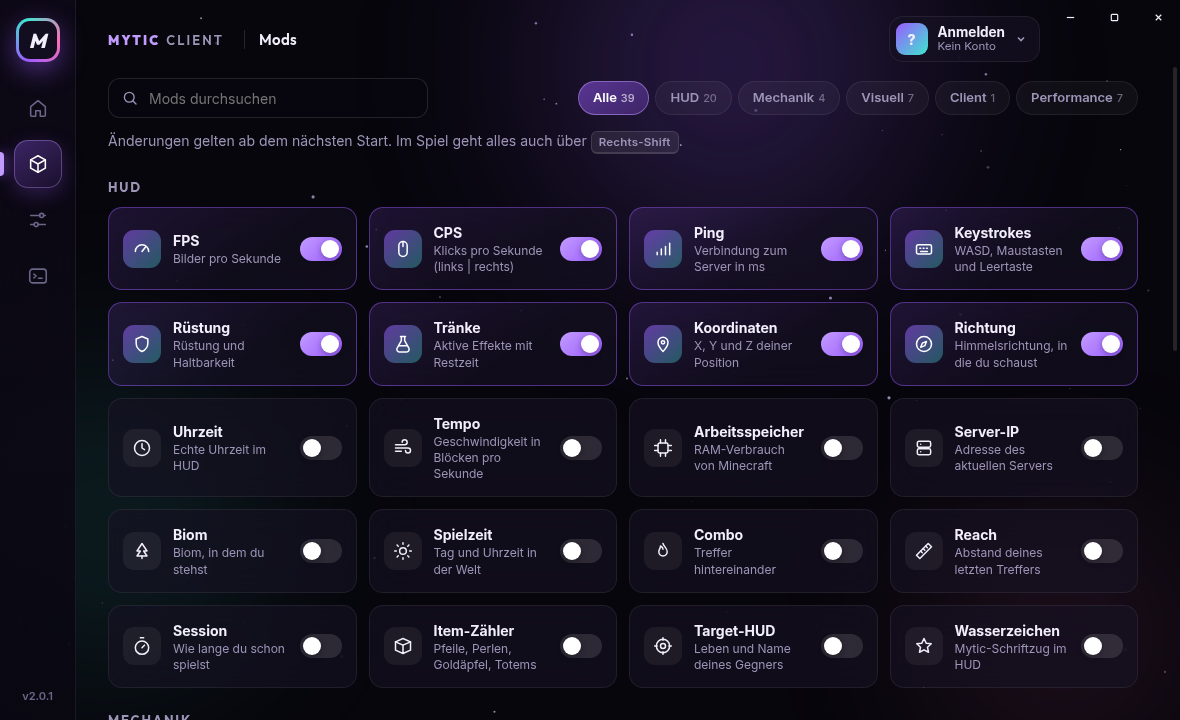
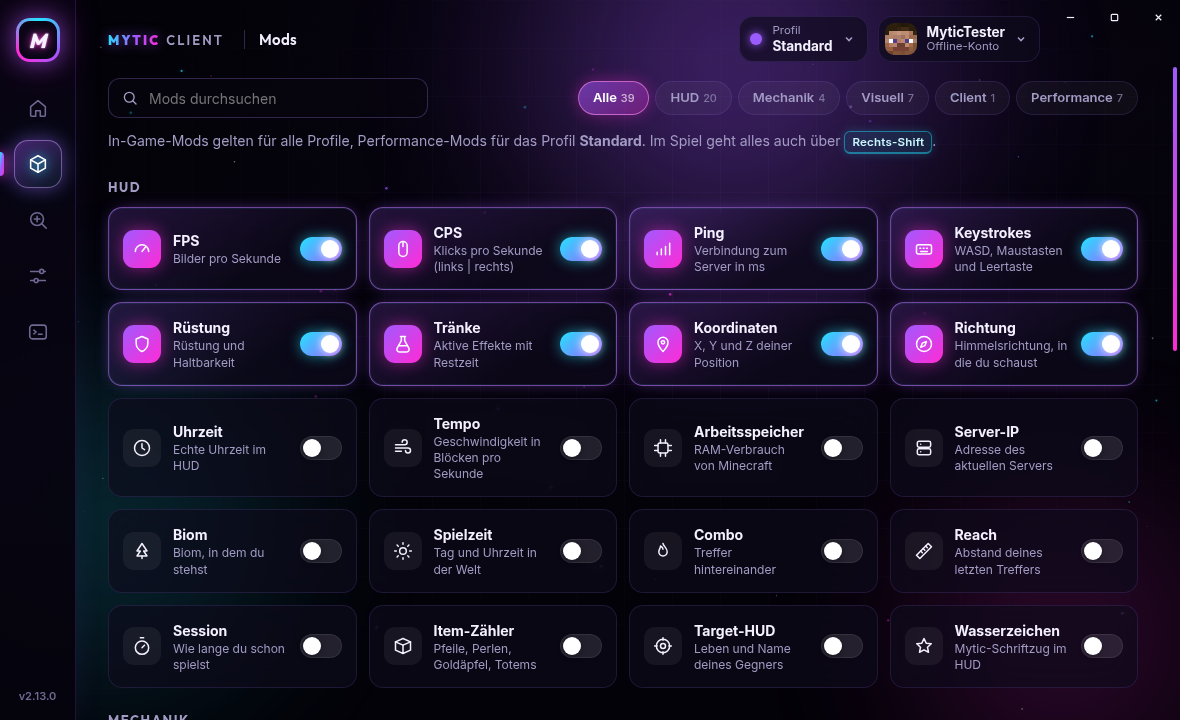
v2.13.0: Neon-Design für den Launcher
- neue Design-Ebene neon.css: Synthwave-Hero (Sonne, Leuchtberge, Würfel, laufendes Gitter),
  Leuchtrahmen, HUD-Ecken, Neon-Partikel, neuer SPIELEN-Knopf
- Animationen über transform/opacity statt Neuzeichnen

diff --git a/launcher/src/renderer/neon.css b/launcher/src/renderer/neon.css
@@ -1,0 +1,201 @@
+/* Neon-/Gaming-Design: liegt über style.css und ändert nur das Aussehen (Farben, Leuchten, Animationen). */
+
+:root {
+  --bg: #04030a;
+  --glass: rgba(14, 10, 28, .66);
+  --glass-strong: rgba(10, 7, 22, .92);
+  --glass-line: rgba(160, 120, 255, .14);
+  --glass-line-strong: rgba(180, 140, 255, .26);
+  --text: #f4f0ff;
+  --muted: #a29bc4;
+  --faint: #6f6892;
+  --accent: #a259ff;
+  --accent-2: #d3a8ff;
+  --accent-glow: rgba(162, 89, 255, .55);
+  --neon-pink: #ff2bd6;
+  --neon-cyan: #22e5ff;
+  --neon-violet: #a259ff;
+  --teal: #22e5ff;
+  --pink: #ff2bd6;
+  --neon-grad: linear-gradient(100deg, var(--neon-cyan), var(--neon-violet) 50%, var(--neon-pink));
+}
+
+/* ------------------------------------------------------------------ Hintergrund: Aurora, Raster, Rauschen */
+body {
+  background:
+    radial-gradient(ellipse at 60% 40%, transparent 15%, #030208 72%),
+    linear-gradient(rgba(162, 89, 255, .045) 1px, transparent 1px) 0 0 / 48px 48px,
+    linear-gradient(90deg, rgba(162, 89, 255, .045) 1px, transparent 1px) 0 0 / 48px 48px,
+    radial-gradient(120% 90% at 70% -10%, #1a0b33 0%, #07040f 45%, #030208 100%);
+}
+.aurora { opacity: .75; }
+.aurora span:nth-child(1) { background: radial-gradient(circle, rgba(162, 89, 255, .6), transparent 65%); }
+.aurora span:nth-child(2) { background: radial-gradient(circle, rgba(34, 229, 255, .32), transparent 65%); }
+.aurora span:nth-child(3) { background: radial-gradient(circle, rgba(255, 43, 214, .35), transparent 65%); }
+
+/* ------------------------------------------------------------------ Leuchtende Rahmen (Verlauf über Maske) */
+.glass:not(.popover-card), .mod, .mr, .hero, .account, .profile-pill { position: relative; }
+.glass::before, .hero::before, .popover-card::before {
+  content: ""; position: absolute; inset: 0; border-radius: inherit; padding: 1px; pointer-events: none;
+  background: linear-gradient(135deg, rgba(34, 229, 255, .55), rgba(162, 89, 255, .25) 40%, rgba(255, 43, 214, .5));
+  -webkit-mask: linear-gradient(#000 0 0) content-box, linear-gradient(#000 0 0);
+  -webkit-mask-composite: xor; mask-composite: exclude;
+  opacity: .55; transition: opacity .25s;
+}
+.glass:hover::before { opacity: .9; }
+.card { transition: transform .25s, box-shadow .25s; }
+.card:hover { transform: translateY(-3px); box-shadow: 0 18px 50px -24px rgba(162, 89, 255, .7), 0 0 0 1px rgba(162, 89, 255, .08); }
+
+/* Ecken-Markierungen wie bei einem HUD */
+.card::after {
+  content: ""; position: absolute; inset: 8px; pointer-events: none; opacity: .6;
+  background:
+    linear-gradient(var(--neon-cyan), var(--neon-cyan)) left top / 12px 1.5px,
+    linear-gradient(var(--neon-cyan), var(--neon-cyan)) left top / 1.5px 12px,
+    linear-gradient(var(--neon-pink), var(--neon-pink)) right bottom / 12px 1.5px,
+    linear-gradient(var(--neon-pink), var(--neon-pink)) right bottom / 1.5px 12px;
+  background-repeat: no-repeat;
+}
+
+/* ------------------------------------------------------------------ Leiste */
+.rail { background: linear-gradient(180deg, rgba(10, 6, 22, .9), rgba(5, 3, 12, .95)); border-right: 1px solid rgba(162, 89, 255, .18); box-shadow: 1px 0 30px rgba(162, 89, 255, .08); }
+.rail-logo { background: conic-gradient(from 0deg, var(--neon-cyan), var(--neon-violet), var(--neon-pink), var(--neon-cyan)); box-shadow: 0 0 22px rgba(162, 89, 255, .6), 0 0 40px rgba(255, 43, 214, .25); }
+.rail-logo span { background: #0a0616; text-shadow: 0 0 10px var(--neon-pink), 0 0 2px #fff; }
+.rail-item.active {
+  color: #fff;
+  background: linear-gradient(145deg, rgba(162, 89, 255, .4), rgba(34, 229, 255, .08));
+  box-shadow: inset 0 0 0 1px rgba(211, 168, 255, .45), 0 0 18px rgba(162, 89, 255, .45), 0 0 34px rgba(34, 229, 255, .12);
+}
+.rail-item.active svg { filter: drop-shadow(0 0 6px var(--neon-cyan)); }
+.rail-item.active::before { background: var(--neon-grad); box-shadow: 0 0 12px var(--neon-pink), 0 0 20px var(--neon-violet); }
+.rail-item:hover svg { filter: drop-shadow(0 0 5px rgba(211, 168, 255, .8)); }
+
+/* Kopfzeile */
+.crumbs b { background: var(--neon-grad); -webkit-background-clip: text; color: transparent; filter: drop-shadow(0 0 6px rgba(162, 89, 255, .6)); }
+.account:hover, .profile-pill:hover { border-color: rgba(34, 229, 255, .5); box-shadow: 0 0 18px rgba(34, 229, 255, .18); }
+
+/* ------------------------------------------------------------------ Hero */
+.hero {
+  background: linear-gradient(115deg, rgba(14, 8, 30, .95), rgba(14, 8, 30, .7) 45%, rgba(14, 8, 30, .15));
+  box-shadow: 0 40px 90px -40px rgba(255, 43, 214, .55), 0 0 60px -30px rgba(34, 229, 255, .5);
+}
+.hero::before { opacity: .8; }
+.hero-scene { overflow: hidden; border-radius: inherit; }
+.hero-scene svg { position: relative; z-index: 1; }
+/* Boden-Raster: eigener Rahmen rechts unten, links weich ausgeblendet, damit es nicht durch Text und Knopf läuft */
+.hero-floor {
+  position: absolute; left: 46%; right: 0; bottom: 0; height: 48%; z-index: 0; overflow: hidden;
+  -webkit-mask-image: linear-gradient(90deg, transparent, #000 28%);
+}
+.hero-grid {
+  position: absolute; left: -40%; right: -40%; top: 0; bottom: -10px; overflow: hidden;
+  transform: perspective(260px) rotateX(62deg); transform-origin: 50% 0;
+  -webkit-mask-image: linear-gradient(transparent, #000 35%, #000);
+}
+/* nur verschieben (transform) statt neu zeichnen – schont schwache Grafikkarten */
+.hero-grid::before {
+  content: ""; position: absolute; left: 0; right: 0; top: -36px; bottom: 0; will-change: transform;
+  background-image:
+    linear-gradient(rgba(255, 43, 214, .75) 2px, transparent 2px),
+    linear-gradient(90deg, rgba(34, 229, 255, .6) 2px, transparent 2px);
+  background-size: 60px 36px;
+  animation: grid-run 1.6s linear infinite;
+}
+@keyframes grid-run { to { transform: translateY(36px); } }
+.sun-glow { animation: sun-pulse 4s ease-in-out infinite; }
+@keyframes sun-pulse { 50% { opacity: .55; } }
+.cube { animation-duration: 6s; }
+.scanlines {
+  position: absolute; inset: 0; z-index: 2; pointer-events: none; opacity: .25; mix-blend-mode: overlay;
+  background: repeating-linear-gradient(0deg, rgba(255, 255, 255, .08) 0 1px, transparent 1px 3px);
+}
+.hero-content { z-index: 3; }
+
+.chip { background: rgba(34, 229, 255, .08); border-color: rgba(34, 229, 255, .45); color: #b9f6ff; box-shadow: 0 0 14px rgba(34, 229, 255, .2), inset 0 0 10px rgba(34, 229, 255, .08); }
+.chip i { background: var(--neon-cyan); box-shadow: 0 0 10px var(--neon-cyan), 0 0 18px var(--neon-cyan); animation: blink 1.6s ease-in-out infinite; }
+@keyframes blink { 50% { opacity: .35; } }
+
+h1 { text-transform: uppercase; letter-spacing: .01em; }
+h1 .mytic {
+  background: linear-gradient(100deg, #fff 0%, #e2c6ff 20%, var(--neon-violet) 55%, var(--neon-pink) 100%);
+  -webkit-background-clip: text; color: transparent;
+  filter: drop-shadow(0 0 18px rgba(162, 89, 255, .75)) drop-shadow(0 0 2px rgba(255, 255, 255, .4));
+}
+h1 .client {
+  background: linear-gradient(100deg, #e9fdff, var(--neon-cyan) 60%, #4aa8ff);
+  -webkit-background-clip: text; color: transparent;
+  filter: drop-shadow(0 0 16px rgba(34, 229, 255, .7));
+}
+h1:hover .mytic, h1:hover .client { animation: glitch .45s steps(2) 1; }
+@keyframes glitch {
+  0% { transform: translate(0); }
+  20% { transform: translate(-3px, 1px) skewX(-6deg); }
+  40% { transform: translate(3px, -1px); }
+  60% { transform: translate(-2px, 0) skewX(4deg); }
+  80% { transform: translate(2px, 1px); }
+  100% { transform: translate(0); }
+}
+.lead { color: #d9d2ef; }
+kbd { background: rgba(34, 229, 255, .1); border-color: rgba(34, 229, 255, .45); color: #c8f8ff; box-shadow: 0 0 10px rgba(34, 229, 255, .2); }
+
+/* SPIELEN-Knopf: Neon mit laufendem Rand und pulsierendem Leuchten */
+.launch {
+  background: linear-gradient(120deg, #ff2bd6, #a259ff 50%, #3b7bff);
+  box-shadow: 0 0 0 1px rgba(255, 255, 255, .18) inset, 0 14px 40px -10px rgba(255, 43, 214, .8), 0 0 34px rgba(162, 89, 255, .55);
+  text-shadow: 0 0 12px rgba(255, 255, 255, .7);
+}
+.launch:hover { box-shadow: 0 0 0 1px rgba(255, 255, 255, .3) inset, 0 20px 50px -10px rgba(255, 43, 214, .95), 0 0 50px rgba(34, 229, 255, .55); }
+.launch-icon { filter: drop-shadow(0 0 6px #fff); }
+.launch.running { background: linear-gradient(120deg, #22e5ff, #18a9ff); animation: none; box-shadow: 0 0 40px rgba(34, 229, 255, .6); }
+.launch-fill { background: linear-gradient(90deg, rgba(34, 229, 255, .7), rgba(34, 229, 255, .3)); box-shadow: 0 0 20px rgba(34, 229, 255, .8); }
+.launch-profile { color: var(--neon-cyan); text-shadow: 0 0 8px rgba(34, 229, 255, .5); }
+
+/* ------------------------------------------------------------------ Karten, Chips, Badges */
+.card h3, .group h3, .section-title { text-transform: uppercase; letter-spacing: .12em; font-size: 13px; }
+.card h3 { color: #fff; text-shadow: 0 0 10px rgba(162, 89, 255, .6); }
+.badge { background: rgba(255, 43, 214, .14); color: #ffb3f1; border: 1px solid rgba(255, 43, 214, .45); box-shadow: 0 0 12px rgba(255, 43, 214, .3); }
+.news li::before { background: var(--neon-cyan); box-shadow: 0 0 8px var(--neon-cyan); }
+.chips .pill.on { background: rgba(34, 229, 255, .1); border-color: rgba(34, 229, 255, .5); color: #c4f8ff; box-shadow: 0 0 12px rgba(34, 229, 255, .25); }
+.group h3 { color: var(--neon-cyan); text-shadow: 0 0 10px rgba(34, 229, 255, .55); }
+.link { color: var(--neon-cyan); }
+.link:hover { text-shadow: 0 0 10px var(--neon-cyan); }
+
+/* Eingaben und Knöpfe */
+input:focus, select:focus { border-color: var(--neon-cyan); box-shadow: 0 0 0 3px rgba(34, 229, 255, .15), 0 0 18px rgba(34, 229, 255, .25); }
+.ghost:hover:not(:disabled) { border-color: rgba(34, 229, 255, .6); background: rgba(34, 229, 255, .08); box-shadow: 0 0 16px rgba(34, 229, 255, .2); }
+.filter.active { background: linear-gradient(135deg, rgba(162, 89, 255, .55), rgba(255, 43, 214, .3)); border-color: rgba(255, 140, 240, .6); box-shadow: 0 0 16px rgba(255, 43, 214, .35); }
+
+/* Mod-Karten */
+.mod:hover { border-color: rgba(34, 229, 255, .35); box-shadow: 0 0 22px -6px rgba(34, 229, 255, .35); }
+.mod.on { border-color: rgba(190, 120, 255, .55); background: linear-gradient(145deg, rgba(162, 89, 255, .2), rgba(14, 10, 28, .7) 65%); box-shadow: inset 0 0 0 1px rgba(34, 229, 255, .08), 0 0 18px -8px rgba(162, 89, 255, .9); }
+.mod.on .icon { background: linear-gradient(135deg, var(--neon-violet), var(--neon-pink)); box-shadow: 0 0 16px rgba(255, 43, 214, .5); }
+.switch span { background: rgba(255, 255, 255, .1); box-shadow: inset 0 0 0 1px rgba(255, 255, 255, .08); }
+.switch input:checked + span { background: linear-gradient(135deg, var(--neon-cyan), var(--neon-violet)); box-shadow: 0 0 14px rgba(34, 229, 255, .55); }
+.switch input:checked + span::after { box-shadow: 0 0 10px #fff; }
+
+/* Mod-Browser */
+.mr:hover { border-color: rgba(34, 229, 255, .4); box-shadow: 0 0 26px -10px rgba(34, 229, 255, .6); }
+.mr.installed { border-color: rgba(34, 229, 255, .45); }
+.mr-btn.install { background: linear-gradient(120deg, var(--neon-pink), var(--neon-violet)); box-shadow: 0 0 16px rgba(255, 43, 214, .45); }
+.mr-btn.install:hover:not(:disabled) { box-shadow: 0 0 24px rgba(255, 43, 214, .7); }
+.mr-btn.done { color: #c4f8ff; background: rgba(34, 229, 255, .1); border-color: rgba(34, 229, 255, .45); }
+
+/* Popover, Toast, Update */
+.popover-card { box-shadow: 0 24px 60px rgba(0, 0, 0, .6), 0 0 40px -10px rgba(162, 89, 255, .5); }
+.prof.active, .acc.selected { border-color: rgba(34, 229, 255, .5); background: rgba(34, 229, 255, .07); box-shadow: 0 0 16px -4px rgba(34, 229, 255, .45); }
+.toast { box-shadow: 0 16px 40px rgba(0, 0, 0, .5), 0 0 24px -6px rgba(162, 89, 255, .6); }
+.toast::before { background: var(--neon-grad); box-shadow: 0 0 10px var(--neon-pink); }
+.update-banner { background: linear-gradient(120deg, rgba(255, 43, 214, .28), rgba(10, 7, 22, .94) 55%); border-color: rgba(255, 43, 214, .45); box-shadow: 0 20px 50px -18px rgba(255, 43, 214, .7); }
+.update-icon { background: linear-gradient(135deg, var(--neon-pink), var(--neon-violet)); box-shadow: 0 0 18px rgba(255, 43, 214, .55); }
+.update-progress div { background: var(--neon-grad); box-shadow: 0 0 10px var(--neon-cyan); }
+
+/* Konsole */
+.log { background: rgba(3, 2, 8, .7); }
+.log .mytic { color: #e2b5ff; text-shadow: 0 0 6px rgba(162, 89, 255, .6); }
+.log .launcher { color: var(--neon-cyan); }
+
+::-webkit-scrollbar-thumb { background: linear-gradient(var(--neon-violet), var(--neon-pink)); background-clip: padding-box; }
+
+@media (prefers-reduced-motion: reduce) {
+  .hero-grid::before, .sun-glow, .chip i { animation: none; }
+}

diff --git a/launcher/src/renderer/index.html b/launcher/src/renderer/index.html
@@ -5,6 +5,7 @@
   <meta http-equiv="Content-Security-Policy" content="default-src 'self'; img-src 'self' data: https://mc-heads.net https://cdn.modrinth.com; style-src 'self' 'unsafe-inline'; font-src 'self'; script-src 'self'">
   <title>Mytic Client</title>
   <link rel="stylesheet" href="style.css">
+  <link rel="stylesheet" href="neon.css">
 </head>
 <body>
   <canvas id="stars" aria-hidden="true"></canvas>
@@ -59,36 +60,42 @@
     <section class="page active" id="page-home">
       <div class="hero">
         <div class="hero-scene" id="hero-scene" aria-hidden="true">
+          <div class="hero-floor"><div class="hero-grid"></div></div>
           <svg viewBox="0 0 900 420" preserveAspectRatio="xMaxYMid slice">
             <defs>
-              <linearGradient id="grass" x1="0" y1="0" x2="0" y2="1"><stop offset="0" stop-color="#3ee6d0"/><stop offset="1" stop-color="#1b9c8f"/></linearGradient>
-              <linearGradient id="rock" x1="0" y1="0" x2="0" y2="1"><stop offset="0" stop-color="#43325f"/><stop offset="1" stop-color="#140f22" stop-opacity="0"/></linearGradient>
-              <linearGradient id="crystal" x1="0" y1="0" x2="1" y2="1"><stop offset="0" stop-color="#e3ccff"/><stop offset=".5" stop-color="#9b5cff"/><stop offset="1" stop-color="#5b2bd1"/></linearGradient>
-              <radialGradient id="glow"><stop offset="0" stop-color="#b98bff" stop-opacity=".7"/><stop offset="1" stop-color="#b98bff" stop-opacity="0"/></radialGradient>
+              <linearGradient id="sun" x1="0" y1="0" x2="0" y2="1"><stop offset="0" stop-color="#ffe66b"/><stop offset=".45" stop-color="#ff7a59"/><stop offset="1" stop-color="#ff2bd6"/></linearGradient>
+              <linearGradient id="ridge" x1="0" y1="0" x2="0" y2="1"><stop offset="0" stop-color="#1a0f33"/><stop offset="1" stop-color="#07050f"/></linearGradient>
+              <linearGradient id="cubeTop" x1="0" y1="0" x2="1" y2="1"><stop offset="0" stop-color="#7df9ff"/><stop offset="1" stop-color="#22b8ff"/></linearGradient>
+              <linearGradient id="cubeLeft" x1="0" y1="0" x2="0" y2="1"><stop offset="0" stop-color="#b56bff"/><stop offset="1" stop-color="#5b1fd1"/></linearGradient>
+              <linearGradient id="cubeRight" x1="0" y1="0" x2="0" y2="1"><stop offset="0" stop-color="#ff4fd8"/><stop offset="1" stop-color="#8f1a9e"/></linearGradient>
+              <radialGradient id="sunGlow"><stop offset="0" stop-color="#ff4fd8" stop-opacity=".55"/><stop offset="1" stop-color="#ff4fd8" stop-opacity="0"/></radialGradient>
+              <mask id="sunCut">
+                <rect x="0" y="0" width="900" height="420" fill="#fff"/>
+                <rect x="400" y="214" width="500" height="5" fill="#000"/><rect x="400" y="232" width="500" height="7" fill="#000"/>
+                <rect x="400" y="252" width="500" height="9" fill="#000"/><rect x="400" y="274" width="500" height="11" fill="#000"/>
+              </mask>
+              <filter id="neon" x="-50%" y="-50%" width="200%" height="200%"><feGaussianBlur stdDeviation="4" result="b"/><feMerge><feMergeNode in="b"/><feMergeNode in="SourceGraphic"/></feMerge></filter>
             </defs>
-            <g class="layer far" data-depth="8">
-              <path fill="#2a1f42" d="M770 330 q50-12 100 0 q-14 28-50 54 q-36-24-50-54z"/>
-              <path fill="#2a1f42" d="M780 110 q40-10 80 0 q-12 24-40 42 q-28-18-40-42z"/>
-              <path fill="#2a1f42" d="M470 70 q30-8 60 0 q-10 18-30 32 q-20-14-30-32z"/>
+            <g class="layer far" data-depth="6">
+              <circle class="sun-glow" cx="640" cy="190" r="230" fill="url(#sunGlow)"/>
+              <circle class="sun" cx="640" cy="200" r="118" fill="url(#sun)" mask="url(#sunCut)"/>
             </g>
-            <g class="layer mid" data-depth="18">
-              <circle cx="610" cy="170" r="150" fill="url(#glow)"/>
-              <path fill="url(#rock)" d="M420 262 q190-48 380 0 l-14 10 q-60 110-176 140 q-116-30-176-140z"/>
-              <path fill="url(#grass)" d="M420 262 q190-48 380 0 q-4 10-16 14 q-174-40-348 0 q-12-4-16-14z"/>
-              <rect x="590" y="150" width="40" height="110" fill="#2b2042"/>
-              <path d="M578 154 l32-50 l32 50z" fill="#9b5cff"/>
-              <rect x="530" y="190" width="26" height="70" fill="#2b2042"/><path d="M522 193 l21-30 l21 30z" fill="#c9a4ff"/>
-              <rect x="664" y="190" width="26" height="70" fill="#2b2042"/><path d="M656 193 l21-30 l21 30z" fill="#c9a4ff"/>
-              <rect x="604" y="196" width="12" height="18" rx="6" fill="#f4c04e"/>
-              <circle cx="490" cy="244" r="20" fill="#f29ac3"/><circle cx="472" cy="252" r="13" fill="#e978b0"/>
-              <circle cx="742" cy="242" r="17" fill="#f29ac3"/><circle cx="756" cy="250" r="11" fill="#e978b0"/>
+            <g class="layer mid" data-depth="14">
+              <path fill="url(#ridge)" d="M380 300 L470 222 L520 258 L600 176 L660 240 L720 196 L790 262 L850 214 L900 250 L900 330 L380 330 Z"/>
+              <path fill="none" stroke="#22e5ff" stroke-width="2" filter="url(#neon)" d="M380 300 L470 222 L520 258 L600 176 L660 240 L720 196 L790 262 L850 214 L900 250"/>
+              <path fill="none" stroke="#ff2bd6" stroke-width="1.5" opacity=".7" d="M470 222 L500 300 M600 176 L590 300 M720 196 L740 300 M850 214 L830 300"/>
             </g>
-            <g class="layer near" data-depth="30">
-              <path class="float" d="M610 40 l16 34 l-16 34 l-16-34z" fill="url(#crystal)"/>
-              <path class="float slow" d="M820 300 l10 22 l-10 22 l-10-22z" fill="url(#crystal)"/>
-              <path class="float" d="M455 120 l8 16 l-8 16 l-8-16z" fill="url(#crystal)"/>
+            <g class="layer near" data-depth="28">
+              <g class="float cube">
+                <path d="M780 96 l46 -26 l46 26 l-46 26 z" fill="url(#cubeTop)"/>
+                <path d="M780 96 l46 26 l0 54 l-46 -26 z" fill="url(#cubeLeft)"/>
+                <path d="M872 96 l-46 26 l0 54 l46 -26 z" fill="url(#cubeRight)"/>
+              </g>
+              <path class="float slow" d="M470 92 l9 18 l-9 18 l-9-18z" fill="#22e5ff"/>
+              <path class="float" d="M560 330 l7 14 l-7 14 l-7-14z" fill="#ff2bd6"/>
             </g>
           </svg>
+          <div class="scanlines"></div>
         </div>
         <div class="hero-content">
           <span class="chip"><i></i>Minecraft <b id="mc-version">1.21.11</b> · <span id="mc-loader">Fabric</span></span>
@@ -112,11 +119,11 @@
 
       <div class="cards">
         <article class="glass card">
-          <header><h3>Neu in 2.12</h3><span class="badge">Update</span></header>
+          <header><h3>Neu in 2.13</h3><span class="badge">Update</span></header>
           <ul class="news">
+            <li><b>Neon-Design:</b> neuer Launcher-Look mit Synthwave-Szene, Leuchtrahmen und Neon-Akzenten</li>
             <li><b>Minecraft 1.8.9:</b> die PvP-Version mit Forge, pro Profil wählbar</li>
             <li><b>Mytic-Mods auch für 1.8.9:</b> HUD, Zoom, Freelook, Mod-Menü – gleiche Einstellungen</li>
-            <li><b>Mod-Browser:</b> zeigt bei 1.8.9 automatisch Forge-Mods</li>
           </ul>
         </article>
         <article class="glass card">

diff --git a/launcher/src/renderer/app.js b/launcher/src/renderer/app.js
@@ -93,6 +93,8 @@ function el(tag, className, text) {
       r: (Math.random() * 1.3 + 0.3) * devicePixelRatio,
       s: Math.random() * 0.15 + 0.03,
       p: Math.random() * Math.PI * 2,
+      // Neon-Partikel: Cyan, Violett, Pink, ab und zu weiß
+      c: ["34, 229, 255", "162, 89, 255", "255, 43, 214", "235, 225, 255"][Math.floor(Math.random() * 4)],
     }));
   };
   const draw = (t) => {
@@ -101,7 +103,9 @@ function el(tag, className, text) {
       p.y -= p.s * devicePixelRatio;
       if (p.y < -4) p.y = canvas.height + 4;
       const a = 0.25 + 0.45 * (0.5 + 0.5 * Math.sin(t / 900 + p.p));
-      ctx.fillStyle = `rgba(214, 196, 255, ${a})`;
+      ctx.fillStyle = `rgba(${p.c}, ${a})`;
+      ctx.shadowColor = `rgba(${p.c}, ${a})`;
+      ctx.shadowBlur = 6 * devicePixelRatio;
       ctx.beginPath();
       ctx.arc(p.x, p.y, p.r, 0, Math.PI * 2);
       ctx.fill();

diff --git a/launcher/test/screenshot.js b/launcher/test/screenshot.js
@@ -17,6 +17,9 @@ app.whenReady().then(async () => {
   await shot("mods", "document.querySelector('[data-page=mods]').click()");
   await shot("settings", "document.querySelector('[data-page=settings]').click()");
   await shot("console", "document.querySelector('[data-page=console]').click()");
+  await shot("browser", "document.querySelector('[data-page=browser]').click()");
+  await new Promise((r) => setTimeout(r, 4000));
+  await shot("browser");
   await shot("accounts", "document.querySelector('[data-page=home]').click(); document.getElementById('account-button').click()");
   app.exit(0);
 });

diff --git a/launcher/src/core/minecraft.js b/launcher/src/core/minecraft.js
@@ -15,7 +15,7 @@ const VERSION_MANIFEST = "https://piston-meta.mojang.com/mc/game/version_manifes
 const FABRIC_META = "https://meta.fabricmc.net/v2";
 const MODRINTH = "https://api.modrinth.com/v2";
 const LAUNCHER_NAME = "MyticClient";
-const LAUNCHER_VERSION = "2.12.0";
+const LAUNCHER_VERSION = "2.13.0";
 
 /** Mods, die der Launcher verwaltet. required = immer installiert, sonst über die Einstellungen schaltbar. */
 /** Alte Versionen laufen mit Forge statt Fabric (Version → Forge-Version). */

diff --git a/README.md b/README.md
@@ -18,6 +18,7 @@ Minecraft 1.8.9, 1.21 – 1.21.11 und 26.x · Fabric & Forge · Windows
 
 ### Launcher
 
+- **Neon-Design:** dunkler Gaming-Look mit Synthwave-Szene, Leuchtrahmen und Neon-Akzenten in Pink, Violett und Cyan.
 - **Ein Klick zum Spielen:** Java, Minecraft 1.21.11, Fabric und alle Mods werden automatisch heruntergeladen und aktuell gehalten. Spieler müssen nichts extra installieren.
 - **Microsoft-Login:** Anmeldung mit dem echten Minecraft-Konto. Der Launcher prüft, ob das Konto Minecraft: Java Edition besitzt.
 - **Mehrere Konten:** schnell zwischen Konten wechseln. Die Anmeldedaten werden mit der Verschlüsselung des Betriebssystems gespeichert.
